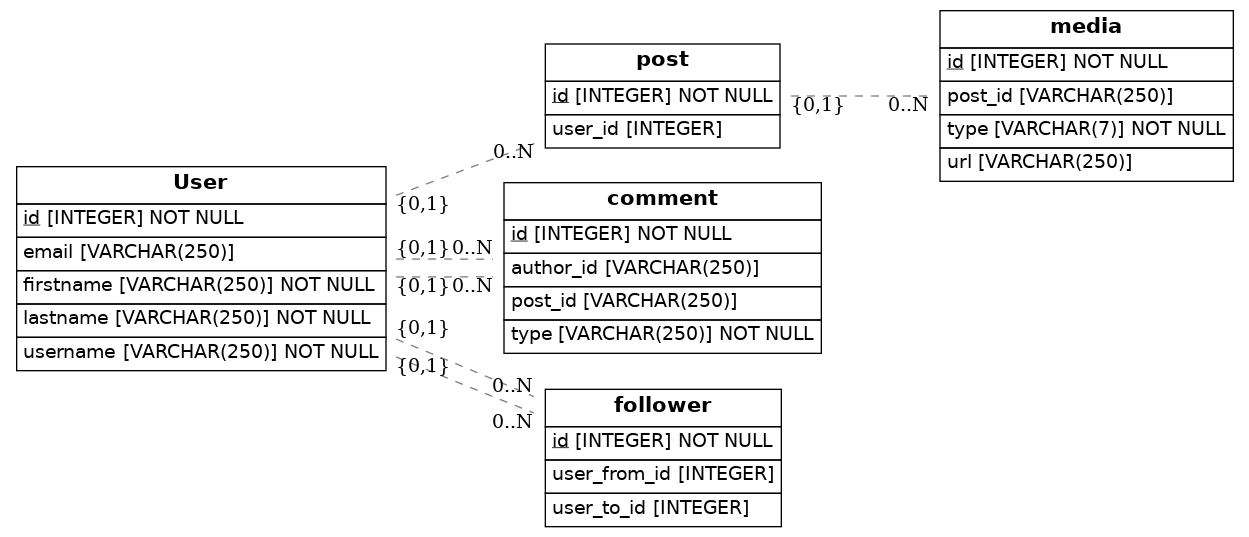
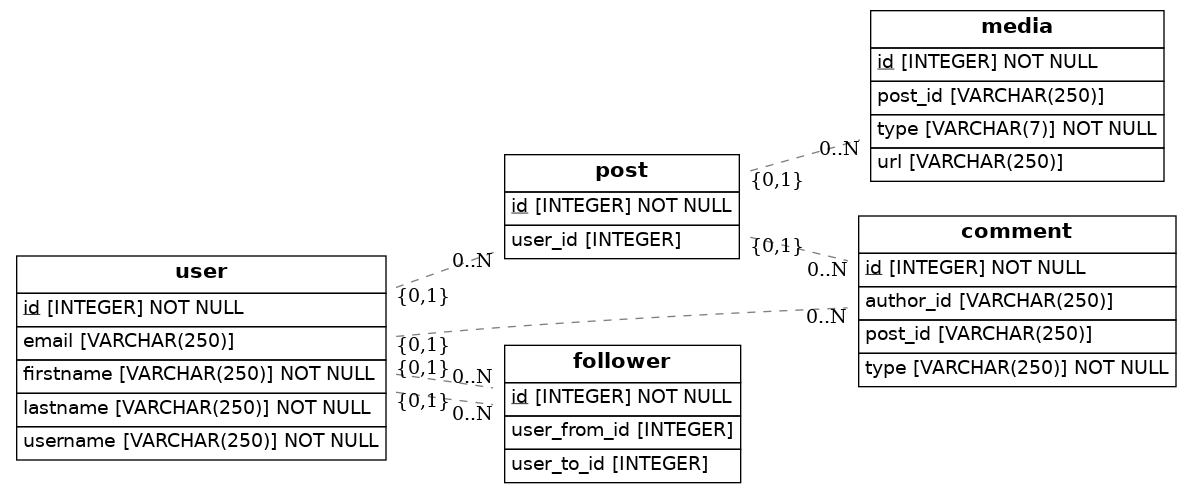
comment user id done

Changed region(s): [[0.0, 0.0609, 0.9933, 1.0], [0.6829, 0.0, 0.9933, 0.3955]]

diff --git a/src/models.py b/src/models.py
@@ -33,7 +33,7 @@ class MyEnum(enum.Enum):
     post = 4#
 
 class User(Base):
-    __tablename__ = 'User'
+    __tablename__ = 'user'
     id = Column(Integer, primary_key = True)
     username = Column(String(250), nullable=False)
     firstname = Column(String(250), nullable=False)
@@ -63,8 +63,8 @@ class Comment(Base):
     __tablename__ = "comment"
     id = Column(Integer, primary_key=True)
     type = Column(String(250), nullable=False)
-    author_id = Column(String(250), ForeignKey('User.id'))
-    post_id = Column(String(250), ForeignKey('User.id'))
+    author_id = Column(String(250), ForeignKey('user.id'))
+    post_id = Column(String(250), ForeignKey('post.id'))
 
     def to_dict(self):
         return {}
@@ -72,8 +72,8 @@ class Comment(Base):
 class Follower(Base):
     __tablename__ = 'follower'
     id = Column(Integer, primary_key=True)
-    user_from_id = Column(Integer, ForeignKey('User.id'))
-    user_to_id = Column(Integer, ForeignKey('User.id'))
+    user_from_id = Column(Integer, ForeignKey('user.id'))
+    user_to_id = Column(Integer, ForeignKey('user.id'))
     def to_dict(self):
         return {}
 
